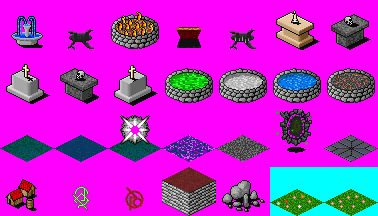
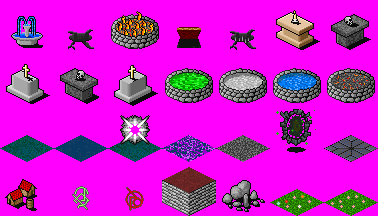
fix(iso): transparencia de las flores integradas en do_extra.png
grass_flowers.png/.old usan CIAN como color transparente (no alfa), pero al
integrarlas en el atlas solo se compuso el alfa -> el cian quedaba opaco y el
tile de flores se veia con bloques cian. Ahora cian -> magenta (el colorkey del
atlas). build_do_extra.py: el tipo 'local' normaliza cian->transparente.

(cherry picked from commit 311a0f062548ec1fed4cef0164ddd28a4a54dc22)

Changed region(s): [[0.6984, 0.75, 1.0, 1.0]]

diff --git a/tools/build_do_extra.py b/tools/build_do_extra.py
@@ -126,11 +126,18 @@ def make_tile(spec):
         cell.alpha_composite(load_rgba(base_k), (0, 0))
         cell.alpha_composite(load_rgba(ov_k, gif), (ox, oy))
     elif kind == 'local':
-        # tile ya presente en lib/xtra/iso/ (NO de dungeonodyssey). RGBA con su
-        # propio alfa -> se compone sobre magenta en el offset y indicado (los de
-        # 54x49 van a y=5 para casar el rombo de suelo con el offset DO_DY=-5).
+        # tile ya presente en lib/xtra/iso/ (NO de dungeonodyssey). Su transp.
+        # puede ser alfa (building_block), magenta (rubble) o CIAN (grass_flowers);
+        # normalizamos cian -> alfa 0 para que al componer sobre magenta quede el
+        # colorkey del sheet. Offset y: los de 54x49 van a y=5 (casar DO_DY=-5).
         _, fn, yoff = spec
         im = Image.open(os.path.join('lib/xtra/iso', fn)).convert('RGBA')
+        px = im.load()
+        for yy in range(im.height):
+            for xx in range(im.width):
+                r, g, b, a = px[xx, yy]
+                if r < 60 and g > 200 and b > 200:
+                    px[xx, yy] = (r, g, b, 0)
         cell.alpha_composite(im, (0, yoff))
     else:
         raise SystemExit('spec desconocida: ' + repr(spec))
